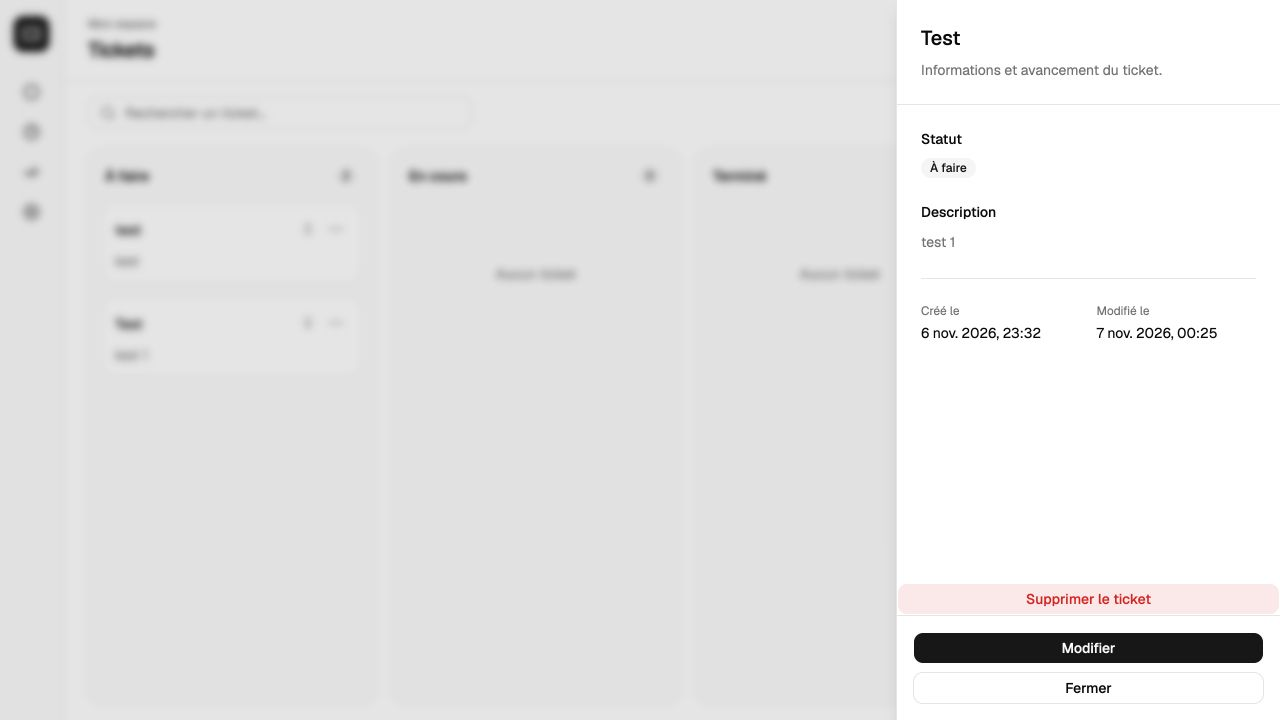
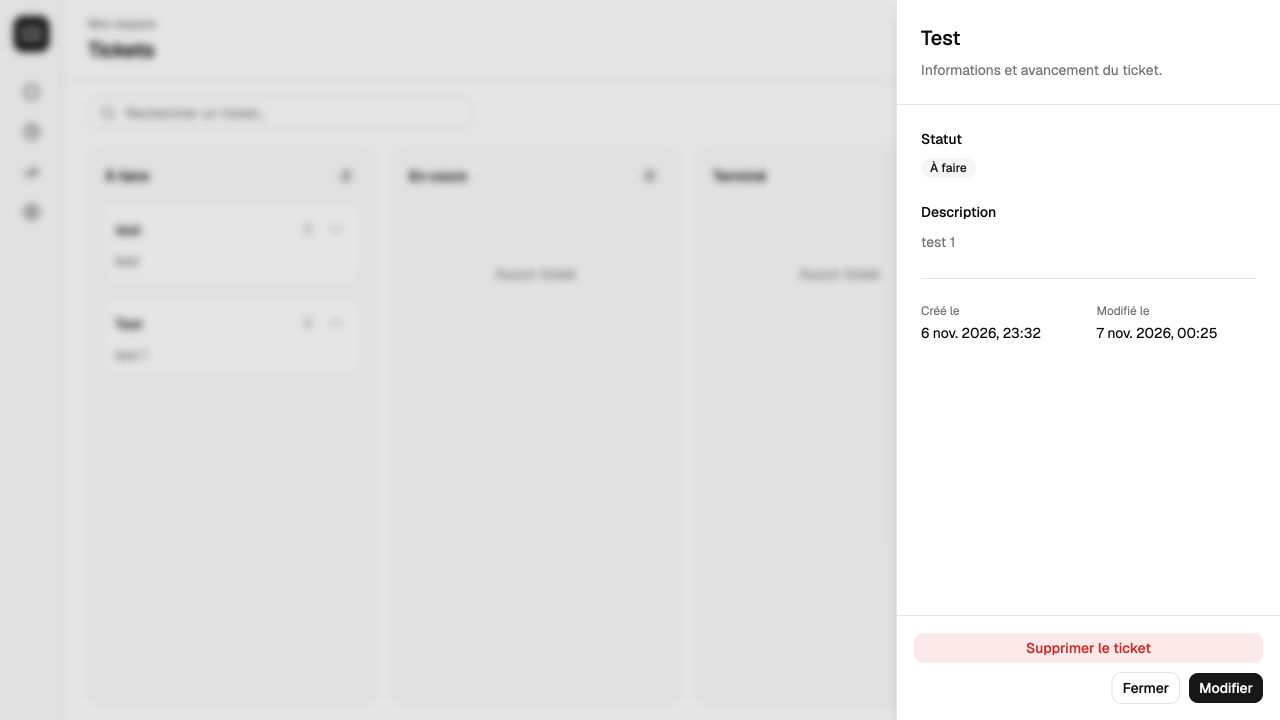
Polish ticket details footer and update screenshot

Changed region(s): [[0.6875, 0.825, 1.0, 0.9778]]

diff --git a/apps/web/src/features/tickets/components/ticket-details-sheet.tsx b/apps/web/src/features/tickets/components/ticket-details-sheet.tsx
@@ -350,55 +350,57 @@ const TicketDetailsSheet = ({
               )}
             </div>
 
-            <DeleteTicketDialog
-              ticket={ticket}
-              hidden={isEditing}
-              disabled={isUpdating || isSubmitting}
-              onDelete={onDelete}
-              onDeleted={() => onOpenChange(false)}
-            />
-
             <SheetFooter className="shrink-0 gap-2 border-t p-4">
-              {isEditing ? (
-                <>
-                  <Button
-                    type="submit"
-                    form={formId}
-                    disabled={
-                      !canSubmit || !hasChanges || isSubmitting || isUpdating
-                    }
-                  >
-                    {isSubmitting ? 'Enregistrement…' : 'Enregistrer'}
-                  </Button>
+              <DeleteTicketDialog
+                ticket={ticket}
+                hidden={isEditing}
+                disabled={isUpdating || isSubmitting}
+                onDelete={onDelete}
+                onDeleted={() => onOpenChange(false)}
+              />
 
-                  <Button
-                    type="button"
-                    variant="outline"
-                    disabled={isSubmitting}
-                    onClick={handleCancelEditing}
-                  >
-                    Annuler
-                  </Button>
-                </>
-              ) : (
-                <>
-                  {ticket && (
+              <div className="ml-auto flex flex-wrap items-center justify-end gap-2">
+                {isEditing ? (
+                  <>
                     <Button
                       type="button"
-                      disabled={isUpdating}
-                      onClick={handleStartEditing}
+                      variant="outline"
+                      disabled={isSubmitting}
+                      onClick={handleCancelEditing}
                     >
-                      Modifier
+                      Annuler
                     </Button>
-                  )}
 
-                  <SheetClose
-                    render={<Button type="button" variant="outline" />}
-                  >
-                    Fermer
-                  </SheetClose>
-                </>
-              )}
+                    <Button
+                      type="submit"
+                      form={formId}
+                      disabled={
+                        !canSubmit || !hasChanges || isSubmitting || isUpdating
+                      }
+                    >
+                      {isSubmitting ? 'Enregistrement…' : 'Enregistrer'}
+                    </Button>
+                  </>
+                ) : (
+                  <>
+                    <SheetClose
+                      render={<Button type="button" variant="outline" />}
+                    >
+                      Fermer
+                    </SheetClose>
+
+                    {ticket && (
+                      <Button
+                        type="button"
+                        disabled={isUpdating}
+                        onClick={handleStartEditing}
+                      >
+                        Modifier
+                      </Button>
+                    )}
+                  </>
+                )}
+              </div>
             </SheetFooter>
           </SheetContent>
         )}
